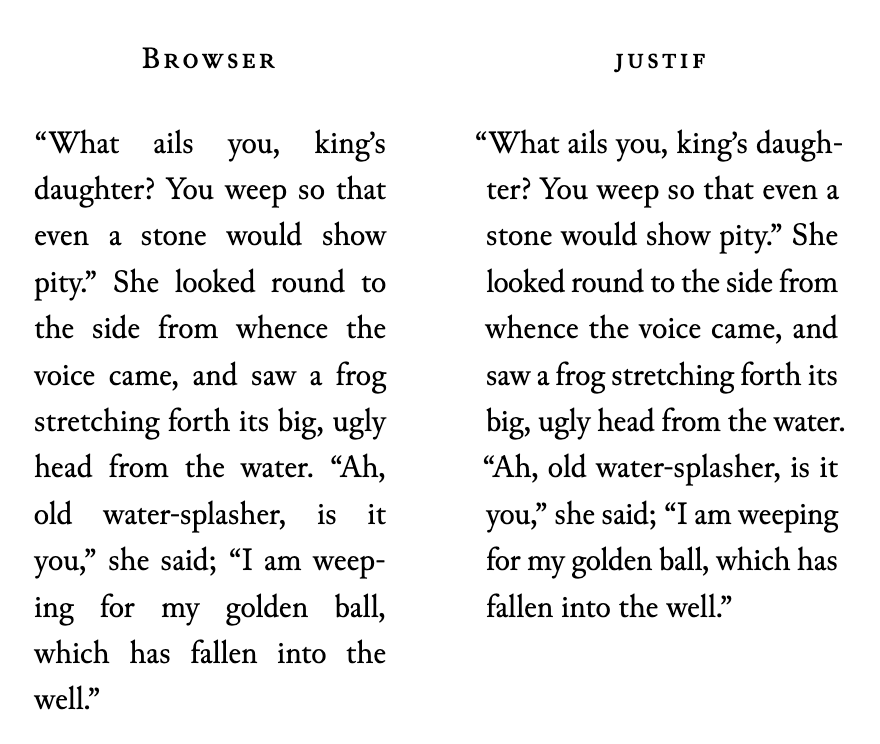
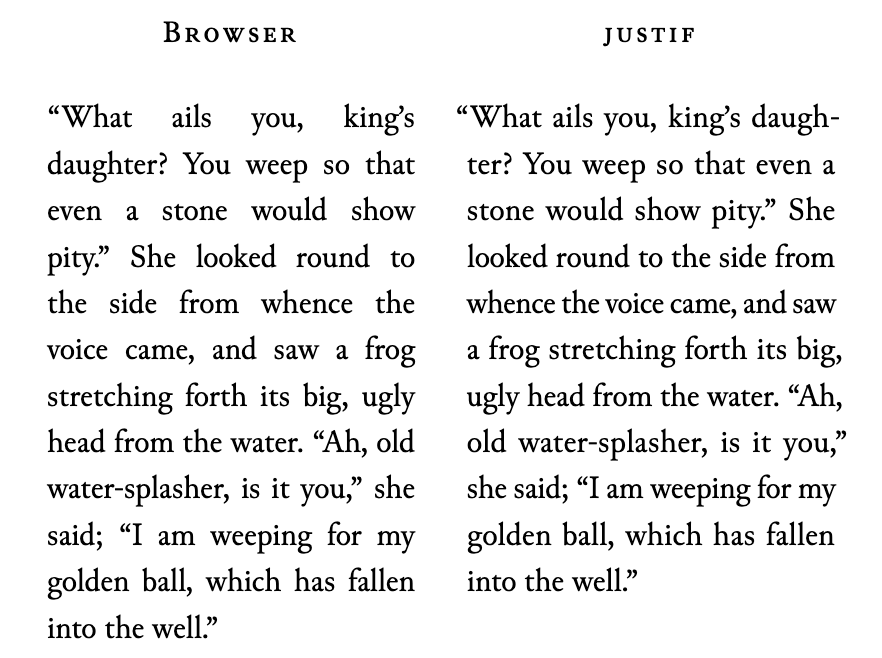
Update screenshot

diff --git a/README.md b/README.md
@@ -23,11 +23,26 @@ poor break near the end of the paragraph.
 
 <p align="center">
   <a href="https://justif.lyall.co">
-    <img
-      src="docs/images/browser-vs-justif.png"
-      alt="Native browser justification with uneven spacing compared with Justif's more balanced line breaks"
-      width="760"
-    >
+    <picture>
+      <source
+        media="(prefers-color-scheme: dark)"
+        type="image/avif"
+        srcset="docs/images/browser-vs-justif-dark.avif"
+      >
+      <source
+        media="(prefers-color-scheme: dark)"
+        srcset="docs/images/browser-vs-justif-dark.png"
+      >
+      <source
+        type="image/avif"
+        srcset="docs/images/browser-vs-justif.avif"
+      >
+      <img
+        src="docs/images/browser-vs-justif.png"
+        alt="Native browser justification with uneven spacing compared with Justif's more balanced line breaks"
+        width="760"
+      >
+    </picture>
   </a><br>
   <em>Native browser vs. Justif rendering, Google Chrome.</em>
 </p>
